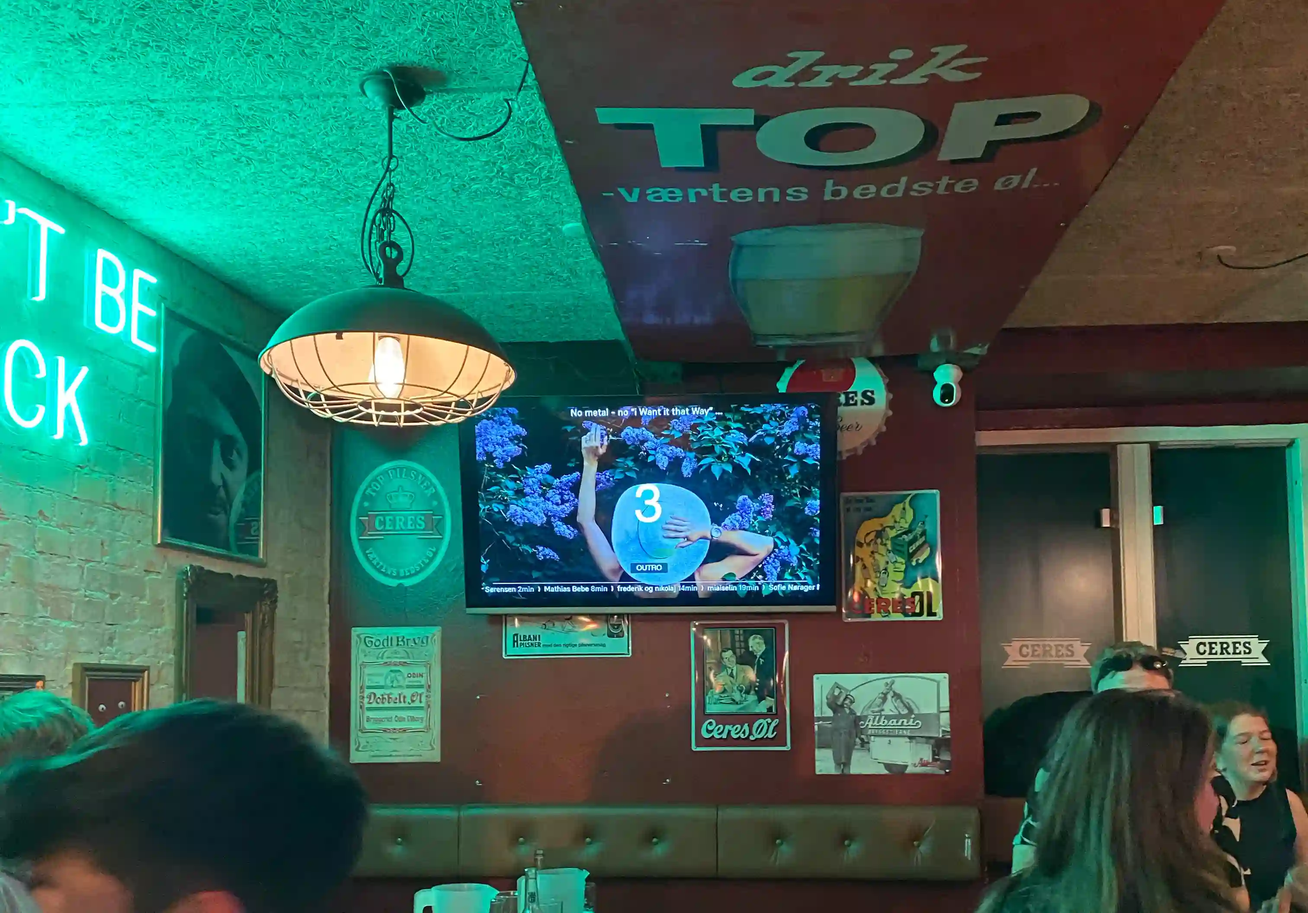
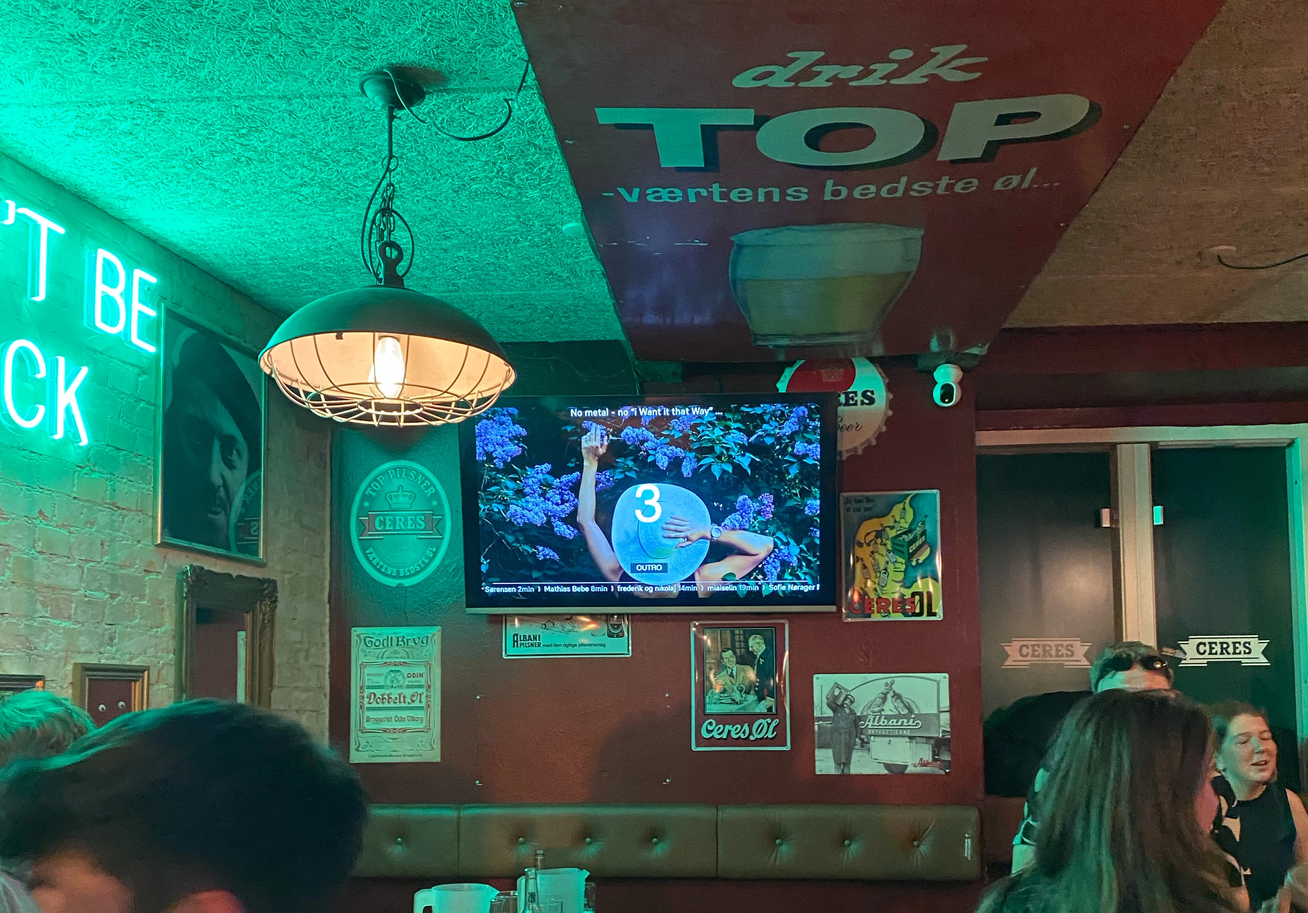
uploadet billederne til .webp i bedre kvalitet

diff --git a/artikler/bedste-bmo.html b/artikler/bedste-bmo.html
@@ -17,21 +17,21 @@
         </div>
         <div class="top-menu">
             <ul>
-                <li><a href="#">Morgenmad</a>
+                <li><a href="#">morgenmad</a>
                     <ul>
                         <li><a href="#">brunch</a></li>
                         <li><a href="#">bare en kop kaf´ </a></li>
                         <li><a href="#">hurtig morgenmad</a></li>
                     </ul>
                 </li>
-                <li><a href="#">Frokost</a>
+                <li><a href="#">frokost</a>
                     <ul>
                         <li><a href="#">let frokost</a></li>
                         <li><a href="#">sen frokost</a></li>
                         <li><a href="#">take away</a></li>
                     </ul>
                 </li>
-                <li><a href="#">Aftensmad</a>
+                <li><a href="#">aftensmad</a>
                     <ul>
                         <li><a href="#">sikker vinder</a></li>
                         <li><a href="#">social dining</a></li>
@@ -39,7 +39,7 @@
                         <li><a href="#">take away</a></li>
                     </ul>
                 </li>
-                <li><a href="#">Fyraften</a>
+                <li><a href="#">fyraften</a>
                     <ul>
                         <li><a href="#">happy hour</a></li>
                         <li><a href="#">øl guide</a></li>
@@ -48,14 +48,14 @@
                         <li><a href="hverdagsloejer.html">hverdagsløjer</a></li>
                     </ul>
                 </li>
-                <li><a href="#">Dates</a>
+                <li><a href="#">dates</a>
                     <ul>
                         <li><a href="foeste-dates.html">første date</a></li>
                         <li><a href="#">gå ture</a></li>
                         <li><a href="#">udover det sædvanlig</a></li>
                     </ul>
                 </li>
-                <li><a href="#">Guides</a>
+                <li><a href="#">guides</a>
                     <ul>
                         <li><a href="#">kaffe</a></li>
                         <li><a href="#">den søde tand</a></li>
@@ -72,7 +72,7 @@
 
     <div class="article">
 
-        <div class="article-hero" style="background-image: url('../img/street.coffee.webp');background-position: 50% 47%;">
+        <div class="article-hero" style="background-image: url('../img/street.coffee1.webp');background-position: 50% 45%;">
             <h1>bedste BMO</h1>
         </div>
         
@@ -117,7 +117,7 @@
                 <div class="background-img"style="background-image: url('../img/monk.webp')"></div>
             </div>
             <div class="split">
-                <div class="background-img" style="background-image: url('../img/street.coffee.2.webp')"></div>
+                <div class="background-img" style="background-image: url('../img/street.coffee.webp')"></div>
                 <div class="tekst">
                     <h2>Street coffee</h2>
                     <p> I Latinerkvarteret findes Street Coffee, en charmerende kaffebar. Street Coffee ligger flere steder rundt i Aarhus. En af mine personlige favoritter er den i Graven. Det særlige ved denne placering er, at du har mulighed for at sidde udenfor med tæpper, og der er endda et vindue, der gør det nemt at tage det med to-go. De bager deres egne boller.

diff --git a/artikler/hverdagsloejer.html b/artikler/hverdagsloejer.html
@@ -17,21 +17,21 @@
         </div>
         <div class="top-menu">
             <ul>
-                <li><a href="#">Morgenmad</a>
+                <li><a href="#">morgenmad</a>
                     <ul>
                         <li><a href="#">brunch</a></li>
                         <li><a href="#">bare en kop kaf´ </a></li>
                         <li><a href="#">hurtig morgenmad</a></li>
                     </ul>
                 </li>
-                <li><a href="#">Frokost</a>
+                <li><a href="#">frokost</a>
                     <ul>
                         <li><a href="#">let frokost</a></li>
                         <li><a href="#">sen frokost</a></li>
                         <li><a href="#">take away</a></li>
                     </ul>
                 </li>
-                <li><a href="#">Aftensmad</a>
+                <li><a href="#">aftensmad</a>
                     <ul>
                         <li><a href="#">sikker vinder</a></li>
                         <li><a href="#">social dining</a></li>
@@ -39,7 +39,7 @@
                         <li><a href="#">take away</a></li>
                     </ul>
                 </li>
-                <li><a href="#">Fyraften</a>
+                <li><a href="#">fyraften</a>
                     <ul>
                         <li><a href="#">happy hour</a></li>
                         <li><a href="#">øl guide</a></li>
@@ -48,14 +48,14 @@
                         <li><a href="hverdagsloejer.html">hverdagsløjer</a></li>
                     </ul>
                 </li>
-                <li><a href="#">Dates</a>
+                <li><a href="#">dates</a>
                     <ul>
                         <li><a href="foeste-dates.html">første date</a></li>
                         <li><a href="#">gå ture</a></li>
                         <li><a href="#">udover det sædvanlig</a></li>
                     </ul>
                 </li>
-                <li><a href="#">Guides</a>
+                <li><a href="#">guides</a>
                     <ul>
                         <li><a href="#">kaffe</a></li>
                         <li><a href="#">den søde tand</a></li>
@@ -71,7 +71,7 @@
     </nav>
     <div class="article">
 
-        <div class="article-hero"style="background-image: url('../img/hverdagsloejer.webp'); background-position: 50% 13%;">
+        <div class="article-hero"style="background-image: url('../img/hverdagsloejer.webp'); background-position: 50% 20%;">
             <h1>hverdagsløjer</h1>
         </div>
         

diff --git a/artikler/foeste-dates.html b/artikler/foeste-dates.html
@@ -17,21 +17,21 @@
         </div>
         <div class="top-menu">
             <ul>
-                <li><a href="#">Morgenmad</a>
+                <li><a href="#">morgenmad</a>
                     <ul>
                         <li><a href="#">brunch</a></li>
                         <li><a href="#">bare en kop kaf´ </a></li>
                         <li><a href="#">hurtig morgenmad</a></li>
                     </ul>
                 </li>
-                <li><a href="#">Frokost</a>
+                <li><a href="#">frokost</a>
                     <ul>
                         <li><a href="#">let frokost</a></li>
                         <li><a href="#">sen frokost</a></li>
                         <li><a href="#">take away</a></li>
                     </ul>
                 </li>
-                <li><a href="#">Aftensmad</a>
+                <li><a href="#">aftensmad</a>
                     <ul>
                         <li><a href="#">sikker vinder</a></li>
                         <li><a href="#">social dining</a></li>
@@ -39,7 +39,7 @@
                         <li><a href="#">take away</a></li>
                     </ul>
                 </li>
-                <li><a href="#">Fyraften</a>
+                <li><a href="#">fyraften</a>
                     <ul>
                         <li><a href="#">happy hour</a></li>
                         <li><a href="#">øl guide</a></li>
@@ -48,14 +48,14 @@
                         <li><a href="hverdagsloejer.html">hverdagsløjer</a></li>
                     </ul>
                 </li>
-                <li><a href="#">Dates</a>
+                <li><a href="#">dates</a>
                     <ul>
                         <li><a href="foeste-dates.html">første date</a></li>
                         <li><a href="#">gå ture</a></li>
                         <li><a href="#">udover det sædvanlig</a></li>
                     </ul>
                 </li>
-                <li><a href="#">Guides</a>
+                <li><a href="#">guides</a>
                     <ul>
                         <li><a href="#">kaffe</a></li>
                         <li><a href="#">den søde tand</a></li>

diff --git a/index.html b/index.html
@@ -73,7 +73,7 @@
     </nav>
 
     <div class="front-page">
-        <div class="background-img" style="background-image: url('../img/street.coffee.webp')"></div>
+        <div class="background-img" style="background-image: url('../img/street.coffee1.webp')"></div>
         <div class="tagline">
             <h1><span>vores aarhus</span><br>- hvor hvert hjørne gemmer på en ny favorit</h1>
         </div>
